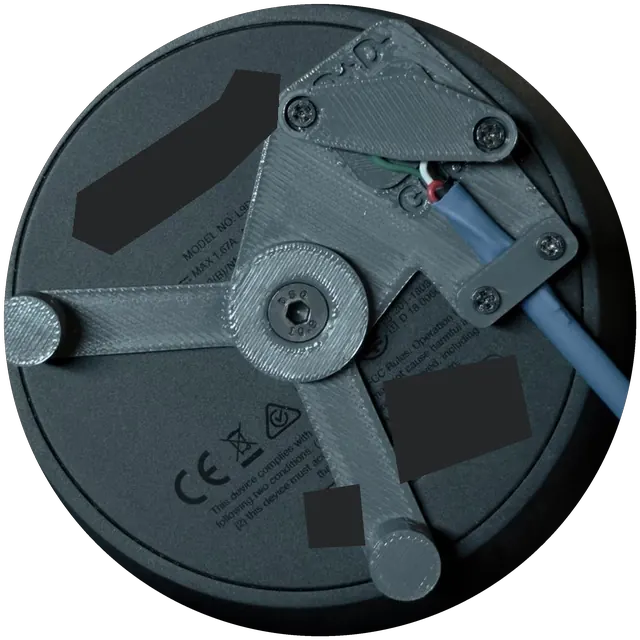
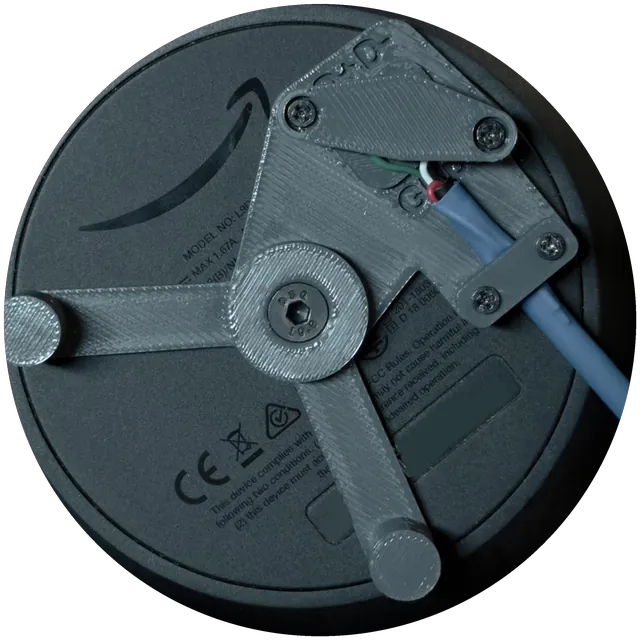
Installer: wider contact photo with all six contacts and a table, clearer What gets written
- Contact photo cropped wider so the label text shows the orientation;
  all six contacts labelled, a table says what each is and whether to
  connect it (TM35: not known yet). The jig photo next to it, with the
  serial label's print removed instead of blocked out.
- What gets written: boot_a and system_b and their jobs; Fire OS no
  longer starts, comes back with the boot_a dump while it is still on
  system_a; later versions will ask before using system_a and offer a
  full Fire OS image first. The confirmation says the same.

diff --git a/installer/index.html b/installer/index.html
@@ -103,41 +103,62 @@
           power starts it. This page does not unlock anything; see
           <a id="link-prereq" target="_blank" rel="noopener">Prerequisites in the README</a>.</li>
         <li>Your own eMMC dump from the unlock, at least <code>boot_a</code>. It is the way back to the stock boot path.</li>
-        <li>The pogo-pin USB: a USB cable on the Echo's USB contacts underneath (D+ on TM4, D− on TM5, GND on TM37, marked below), for example with the project's pogo-pin jig. One contact of the block carries about 17 V: see below.</li>
+        <li>The pogo-pin USB: a USB cable on the six contacts underneath the Echo (D+, D− and GND, see below), for example with the project's pogo-pin jig.</li>
         <li>The two images, <code>lidar-uboot.img</code> and <code>lidar-test-system.ext4</code> (next step).</li>
       </ul>
-      <div class="photos">
-        <figure class="echo-pads">
-          <img src="echo-pads.webp" width="720" height="540" alt="The six gold contacts on the underside of the Echo, seen with the label upright. Top row, left to right: TM45, D+ (TM4), D− (TM5). Bottom row: TM35, GND (TM37), and at the bottom right 17 V (TM33), which must stay unconnected">
-          <svg viewBox="0 0 100 75" aria-hidden="true">
-            <circle class="sig" cx="42.9" cy="31.7" r="5"/><text x="42.9" y="22.5">D+</text>
-            <circle class="sig" cx="56.7" cy="31.7" r="5"/><text x="56.7" y="22.5">D−</text>
-            <circle class="gnd" cx="42.9" cy="45.2" r="5"/><text x="42.9" y="58.6">GND</text>
-            <circle class="hot" cx="56.7" cy="45.2" r="5"/><text class="hot" x="56.7" y="58.6">17 V</text>
-          </svg>
-          <figcaption>Underneath, with the label upright: the Echo's outer edge is to the right of the window, the small notch in its frame on the left. The two contacts in the left column stay free.</figcaption>
-        </figure>
+      <figure class="echo-pads">
+        <img src="echo-pads.webp" width="1240" height="520" alt="The underside of the Echo with its label text upright and the window with six gold contacts to the right of it. Top row, left to right: TM45, D+, D−. Bottom row: TM35, GND, and 17 V at the bottom right">
+        <svg viewBox="0 0 100 41.94" aria-hidden="true">
+          <circle class="free" cx="70.8" cy="9.84" r="2.4"/><text x="70.8" y="5.6">TM45</text>
+          <circle class="sig" cx="76.0" cy="9.84" r="2.4"/><text x="76.0" y="5.6">D+</text>
+          <circle class="sig" cx="81.6" cy="9.84" r="2.4"/><text x="81.6" y="5.6">D−</text>
+          <circle class="free" cx="70.8" cy="15.08" r="2.4"/><text x="70.8" y="20.4">TM35</text>
+          <circle class="gnd" cx="76.0" cy="15.08" r="2.4"/><text x="76.0" y="20.4">GND</text>
+          <circle class="hot" cx="81.6" cy="15.08" r="2.4"/><text class="hot" x="81.6" y="20.4">17 V</text>
+        </svg>
+        <figcaption>The contacts underneath the Echo, seen with the label text upright as here.</figcaption>
+      </figure>
+      <div class="pads-detail">
+        <table class="pads">
+          <thead><tr><th>Contact</th><th>Signal</th><th>Connect</th></tr></thead>
+          <tbody>
+            <tr><td>top middle (TM4)</td><td>USB D+</td><td>yes</td></tr>
+            <tr><td>top right (TM5)</td><td>USB D−</td><td>yes</td></tr>
+            <tr><td>bottom middle (TM37)</td><td>ground</td><td>yes</td></tr>
+            <tr class="hot"><td>bottom right (TM33)</td><td>about 17 V from the power adapter</td><td><b>never</b></td></tr>
+            <tr><td>top left (TM45)</td><td>USB ID</td><td>no, leave free</td></tr>
+            <tr><td>bottom left (TM35)</td><td>not known yet (probably USB power from the factory fixture)</td><td>no, leave free</td></tr>
+          </tbody>
+        </table>
         <figure class="echo-jig">
           <img src="echo-jig.webp" width="640" height="640" alt="The pogo-pin jig clamped to the underside of the Echo, its cable leading off to the right">
-          <figcaption>The project's pogo-pin jig in place (<code>pogo-jig/</code>): only D+, D− and GND are wired; the red wire (VBUS) is cut off and insulated. The Echo also needs its own power adapter; plug that in last, while holding a button.</figcaption>
+          <figcaption>The project's pogo-pin jig (<code>pogo-jig/</code>) in place: only D+, D− and GND are wired.</figcaption>
         </figure>
       </div>
-      <p class="callout"><b>The bottom right contact, the one nearest the outer edge (TM33), carries about 17 V from the power adapter.</b> Never connect anything to it, and do not bridge it to its neighbours.</p>
+      <p class="callout"><b>The bottom right contact carries about 17 V.</b> Never connect anything to it, and do not bridge it to its neighbours.</p>
     </div>
     <div class="card">
       <h3>What gets written</h3>
+      <p>Two partitions, each with its own job:</p>
       <ul class="rows">
-        <li><div class="stack"><span class="name"><code>boot_a</code> ← lidar-uboot.img</span><span class="meta">Replaces the boot image LK starts. Restore your own <code>boot_a</code> dump through Kaeru fastboot to undo it.</span></div></li>
-        <li><div class="stack"><span class="name"><code>system_b</code> ← lidar-test-system.ext4</span><span class="meta">Erases <code>system_b</code>. Fire OS on <code>system_a</code> stays as it is.</span></div></li>
+        <li><div class="stack"><span class="name"><code>boot_a</code> ← lidar-uboot.img</span><span class="meta">The boot partition: the bootloader (LK) starts whatever is in it. Today that is Fire OS's kernel; afterwards it is lidar's bootloader (U-Boot), which starts lidar.</span></div></li>
+        <li><div class="stack"><span class="name"><code>system_b</code> ← lidar-test-system.ext4</span><span class="meta">The spare system partition Fire OS keeps for its updates. lidar's system goes here; what was on it is erased.</span></div></li>
       </ul>
-      <p class="note">Nothing else is written, and the installer refuses any other partition. Kaeru's fastboot lives in partitions this
-        project never touches, so it stays available for recovery: hold <b>Action</b> while plugging in power.</p>
-      <p class="callout">If your Fire OS runs from slot b, do not use this page: it would erase it. Follow the README by hand with
-        <code>system_a</code> instead.</p>
+      <p><b>Fire OS no longer starts afterwards.</b> This install does not touch its own system on <code>system_a</code> (lidar
+        takes the Wi-Fi firmware and the speaker tuning from it). While Fire OS is still there, restoring your own
+        <code>boot_a</code> dump through Kaeru fastboot (hold <b>Action</b> while plugging in power) brings it back.</p>
+      <p class="note">Later versions of lidar will use <code>system_a</code> as their second partition for updates. They ask first,
+        and offer to save a full image of Fire OS to your computer before anything is written there; without that image there is no
+        way back to Fire OS afterwards.</p>
+      <p class="note">Nothing else is written, and the installer refuses any other partition. Kaeru fastboot lives in partitions this
+        project never touches, so it stays available for recovery.</p>
+      <p class="callout">Fire OS normally runs from <code>system_a</code>. If yours runs from <code>system_b</code>, do not use this
+        page: it would erase it. Follow the README by hand with <code>system_a</code> instead.</p>
     </div>
     <div class="card">
-      <label class="check"><input type="checkbox" id="pre-ok"><span>My Echo Plus 2nd gen is unlocked and has Kaeru fastboot, I have my own
-        <code>boot_a</code> dump, and I accept that <code>system_b</code> is erased. I do this at my own risk.</span></label>
+      <label class="check"><input type="checkbox" id="pre-ok"><span>My Echo Plus 2nd gen is unlocked and has Kaeru fastboot, and I have my own
+        <code>boot_a</code> dump. I accept that <code>system_b</code> is erased and that Fire OS no longer starts until I restore that
+        dump. I do this at my own risk.</span></label>
     </div>
     <div class="bar"><button data-go="1">Back</button><span class="grow"></span><button class="pri" data-go="3" id="next-2" disabled>Next</button></div>
   </section>

diff --git a/installer/style.css b/installer/style.css
@@ -129,21 +129,28 @@ figure.echo-top circle { fill: none; stroke: #ff3b30; stroke-width: 1.6;
 figure.echo-top figcaption { text-align: center; color: var(--muted); font-size: .9rem; margin-top: 6px; }
 @keyframes press { 50% { transform: scale(1.18); opacity: .55; } }
 @media (prefers-reduced-motion: reduce) { figure.echo-top circle { animation: none; } }
-/* underside: the contacts with their signals marked, and the jig in place */
-.photos { display: grid; grid-template-columns: repeat(auto-fit, minmax(240px, 1fr)); gap: 16px; align-items: start; }
-.photos figure { margin: 0; }
-.photos img { display: block; width: 100%; height: auto; border-radius: 10px; }
-.photos figcaption { color: var(--muted); font-size: .9rem; margin-top: 6px; }
-figure.echo-jig img { width: min(100%, 300px); margin: 0 auto; border-radius: 50%; }
-figure.echo-pads { position: relative; }
-figure.echo-pads svg { position: absolute; left: 0; top: 0; width: 100%; aspect-ratio: 4 / 3; pointer-events: none; }
-figure.echo-pads circle { fill: none; stroke-width: 1.1; }
+/* underside: the contacts with their signals marked, a table, the jig in place */
+figure.echo-pads, figure.echo-jig { margin: 0; }
+figure.echo-pads { position: relative; margin-top: 16px; }
+figure.echo-pads img { display: block; width: 100%; height: auto; border-radius: 10px; }
+figure.echo-pads svg { position: absolute; left: 0; top: 0; width: 100%; aspect-ratio: 100 / 41.94; pointer-events: none; }
+figure.echo-pads circle { fill: none; stroke-width: .55; }
 figure.echo-pads circle.sig { stroke: #4ade80; }
 figure.echo-pads circle.gnd { stroke: #60a5fa; }
-figure.echo-pads circle.hot { stroke: #ff3b30; stroke-width: 1.6; }
-figure.echo-pads text { font: 700 4.6px system-ui, sans-serif; fill: #fff; text-anchor: middle;
-  paint-order: stroke; stroke: rgba(0, 0, 0, .75); stroke-width: 1.2px; }
+figure.echo-pads circle.free { stroke: rgba(255, 255, 255, .45); stroke-dasharray: .8 .6; }
+figure.echo-pads circle.hot { stroke: #ff3b30; stroke-width: .8; }
+figure.echo-pads text { font: 700 1.75px system-ui, sans-serif; fill: #fff; text-anchor: middle;
+  paint-order: stroke; stroke: rgba(0, 0, 0, .8); stroke-width: .5px; }
 figure.echo-pads text.hot { fill: #ff6b61; }
+figure.echo-pads figcaption, figure.echo-jig figcaption { color: var(--muted); font-size: .9rem; margin-top: 6px; }
+.pads-detail { display: grid; grid-template-columns: 1fr 220px; gap: 20px; align-items: center; margin-top: 14px; }
+@media (max-width: 640px) { .pads-detail { grid-template-columns: 1fr; } }
+figure.echo-jig img { display: block; width: 100%; max-width: 220px; height: auto; margin: 0 auto; border-radius: 50%; }
+figure.echo-jig figcaption { text-align: center; }
+table.pads { width: 100%; border-collapse: collapse; font-size: .92rem; }
+table.pads th, table.pads td { text-align: left; padding: 6px 8px; border-bottom: 1px solid var(--line); }
+table.pads th { color: var(--muted); font-weight: 600; }
+table.pads tr.hot td { color: var(--bad); font-weight: 600; }
 .prog { display: grid; gap: 6px; }
 .prog span { color: var(--muted); font-size: .85rem; font-variant-numeric: tabular-nums; }
 
